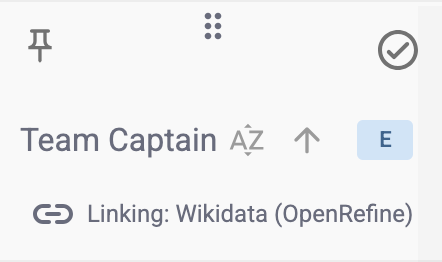
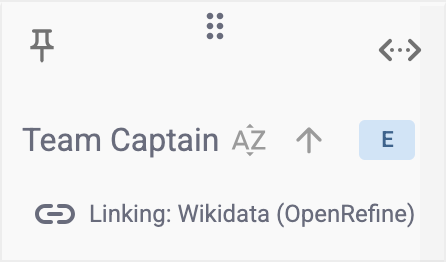
fix: add Manage metadata button in header column and update tutorial

diff --git a/src/pages/Viewer/TableViewer/Table/TableHeaderCell/TableHederCell.tsx b/src/pages/Viewer/TableViewer/Table/TableHeaderCell/TableHederCell.tsx
@@ -1,20 +1,21 @@
 /* eslint-disable react/destructuring-assignment */
 import { Box, IconButton, Stack, Tooltip } from "@mui/material";
 import LinkRoundedIcon from "@mui/icons-material/LinkRounded";
-import CheckCircleOutlineRoundedIcon from "@mui/icons-material/CheckCircleOutlineRounded";
-import CheckCircleRoundedIcon from "@mui/icons-material/CheckCircleRounded";
 import ArrowDownwardRoundedIcon from "@mui/icons-material/ArrowDownwardRounded";
 import ArrowUpwardRoundedIcon from "@mui/icons-material/ArrowUpwardRounded";
 import PushPinIcon from '@mui/icons-material/PushPin';
 import PushPinOutlinedIcon from '@mui/icons-material/PushPinOutlined';
 import SortByAlphaIcon from "@mui/icons-material/SortByAlpha";
 import DragIndicatorIcon from "@mui/icons-material/DragIndicator";
+import SettingsEthernetRoundedIcon from "@mui/icons-material/SettingsEthernetRounded";
 import clsx from "clsx";
 import { ButtonShortcut } from "@components/kit";
 import { ColumnStatus } from "@store/slices/table/interfaces/table";
 import { RootState } from "@store";
 import { connect } from "react-redux";
 import { selectColumnReconciliators } from "@store/slices/table/table.selectors";
+import { updateUI } from "@store/slices/table/table.slice";
+import { useAppDispatch } from "@hooks/store";
 import { forwardRef, MouseEvent, useCallback, useState } from "react";
 import { capitalize } from "@services/utils/text-utils";
 import { StatusBadge } from "@components/core";
@@ -81,6 +82,7 @@ const TableHeaderCell = forwardRef<HTMLTableHeaderCellElement>(
     }: any,
     ref
   ) => {
+    const dispatch = useAppDispatch();
     const [hover, setHover] = useState<boolean>(false);
     const { lowerBound } = settings;
     const columnData = header.column.columnDef.data;
@@ -169,6 +171,10 @@ const TableHeaderCell = forwardRef<HTMLTableHeaderCellElement>(
       return "";
     };
 
+    const handleMetadataDialogAction = () => {
+      dispatch(updateUI({ openMetadataColumnDialog: true }));
+    };
+
     return (
       <th
         ref={(el) => {
@@ -243,30 +249,17 @@ const TableHeaderCell = forwardRef<HTMLTableHeaderCellElement>(
                   </IconButton>
                 </Tooltip>
               )}
-              {/* Select Column */}
-              {!selected ? (
-                <Tooltip title="Select to enable Reconcile and Expand functions" arrow>
-                  <IconButton
-                    onClick={handleSelectColumn}
-                    className={styles.ColumnSelectionButton}
-                    sx={{ marginBottom: 15 }}
-                    size="small"
-                    title=""
-                  >
-                    <CheckCircleOutlineRoundedIcon fontSize="medium" />
-                  </IconButton>
-                </Tooltip>
-              ) : (
+              <Tooltip title="Manage metadata" arrow>
                 <IconButton
-                  onClick={handleSelectColumn}
-                  className={styles.ColumnSelectionButton}
+                  onClick={handleMetadataDialogAction}
+                  className={styles.ColumnManageButton}
                   sx={{ marginBottom: 15 }}
                   size="small"
                   title=""
                 >
-                  <CheckCircleRoundedIcon fontSize="medium" />
+                  <SettingsEthernetRoundedIcon fontSize="medium" />
                 </IconButton>
-              )}
+              </Tooltip>
               <div style={{ marginTop: 20 }} className={styles.Row}>
                 <div className={styles.Column}>
                   <div className={styles.Row}>

diff --git a/src/pages/Viewer/HelpDialog/HelpDialog.tsx b/src/pages/Viewer/HelpDialog/HelpDialog.tsx
@@ -84,7 +84,7 @@ const IndexContainer = styled(Box)({
 
 const ContentContainer = styled(Box)({
   padding: "16px",
-  height: "100%",
+  height: "auto",
   width: "100%",
   overflow: "auto",
 }) as typeof Box;
@@ -320,20 +320,23 @@ const steps: Step[] = [
             keep a column fixed on the left while scrolling.
           </li>
           <li>
+            <b>Manage metadata: </b>
+            view or edit metadata of the column.
+          </li>
+          <li>
             <b>Drag & drop: </b>
             reorder columns freely by dragging their headers.
           </li>
           <li>
             <b>Resize column: </b>
-            adjust the column width manually by dragging the edge. The
+            drag the edge manually to adjust width. The reset button
             <RestartAltRoundedIcon
               sx={{
                 margin: "0px 3px",
                 verticalAlign: "middle",
               }}
             />
-            button appears in the Subtoolbar only after a column has been resized
-            and restores the default widths.
+            appears in the Subtoolbar only after resizing to restore default widths.
           </li>
           <li>
             <b>Sort alphabetically: </b>

diff --git a/src/pages/Viewer/TableViewer/Table/TableHeaderCell/TableHeaderCell.module.scss b/src/pages/Viewer/TableViewer/Table/TableHeaderCell/TableHeaderCell.module.scss
@@ -31,7 +31,7 @@
   }
 
   &:hover {
-    .ColumnSelectionButton {
+    .ColumnManageButton {
       visibility: visible;
     }
 
@@ -40,7 +40,7 @@
     }
   }
 
-  .ColumnSelectionButton {
+  .ColumnManageButton {
     position: absolute;
     top: 5px;
     right: 5px;
